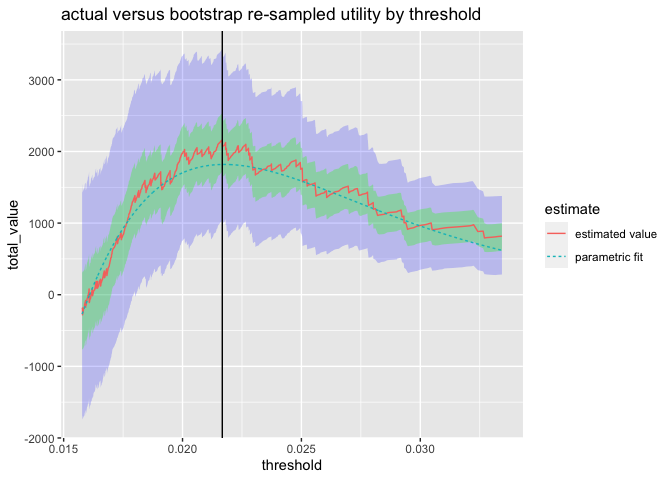
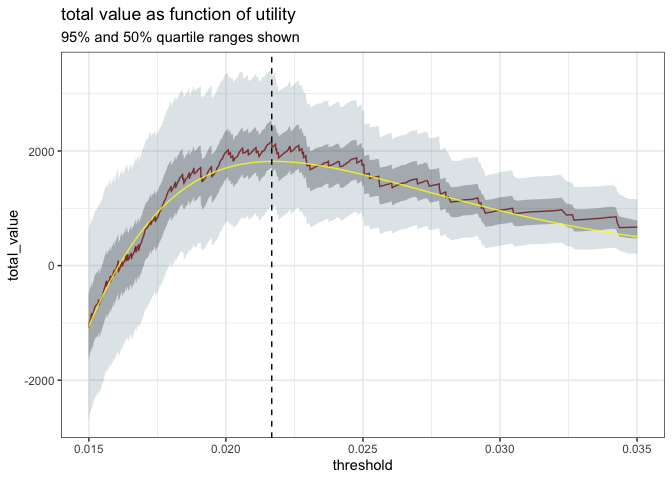
work on range

diff --git a/extras/utility_modeling/Utility_Sampling_Distribution.md b/extras/utility_modeling/Utility_Sampling_Distribution.md
@@ -99,7 +99,7 @@ WVPlots::ROCPlot(d, xvar = 'predicted_probability', truthVar = 'converted', trut
 
 ``` r
 # get a plot region
-threshold_list <- values$threshold[(!is.na(values$threshold)) & (values$total_value >= -200)]
+threshold_list <- values$threshold[(!is.na(values$threshold)) & (values$total_value >= -0.5*max(values$total_value))]
 diff_left <- max(chosen_threshold - threshold_list)
 threshold_list <- threshold_list[abs(threshold_list - chosen_threshold) <= 2*diff_left]
 
@@ -184,22 +184,27 @@ plot_thin <- plot_thin[
 
 plot_thin <- plot_thin[plot_thin$estimate != 'bootstrapped value', , drop = FALSE]
 
+pal <- c('#841c17', 'yellow')
 ggplot() +
   geom_ribbon(
     data = boot_summary,
     mapping = aes(x = threshold, ymin = q_0.025, ymax = q_0.975),
     alpha = 0.2,
-    fill = 'blue') +
+    fill = '#5e8190') +
   geom_ribbon(
     data = boot_summary,
     mapping = aes(x = threshold, ymin = q_0.25, ymax = q_0.75),
     alpha = 0.3,
-    fill = 'green') +
+    fill = '#263743') +
   geom_line(
     data = plot_thin,
-    mapping = aes(x = threshold, y = total_value, color = estimate, linetype = estimate)) + 
-  geom_vline(xintercept = chosen_threshold) +
-  ggtitle("actual versus bootstrap re-sampled utility by threshold")
+    mapping = aes(x = threshold, y = total_value, color = estimate),
+    alpha = 0.8) + 
+  scale_color_manual(values = pal) +
+  geom_vline(xintercept = chosen_threshold, linetype = 2) +
+  theme_bw() +
+  theme(legend.position = "none") +
+  ggtitle("total value as function of utility", subtitle = "95% and 50% quartile ranges shown")
 ```
 
 ![](Utility_Sampling_Distribution_files/figure-gfm/unnamed-chunk-1-2.png)<!-- -->
